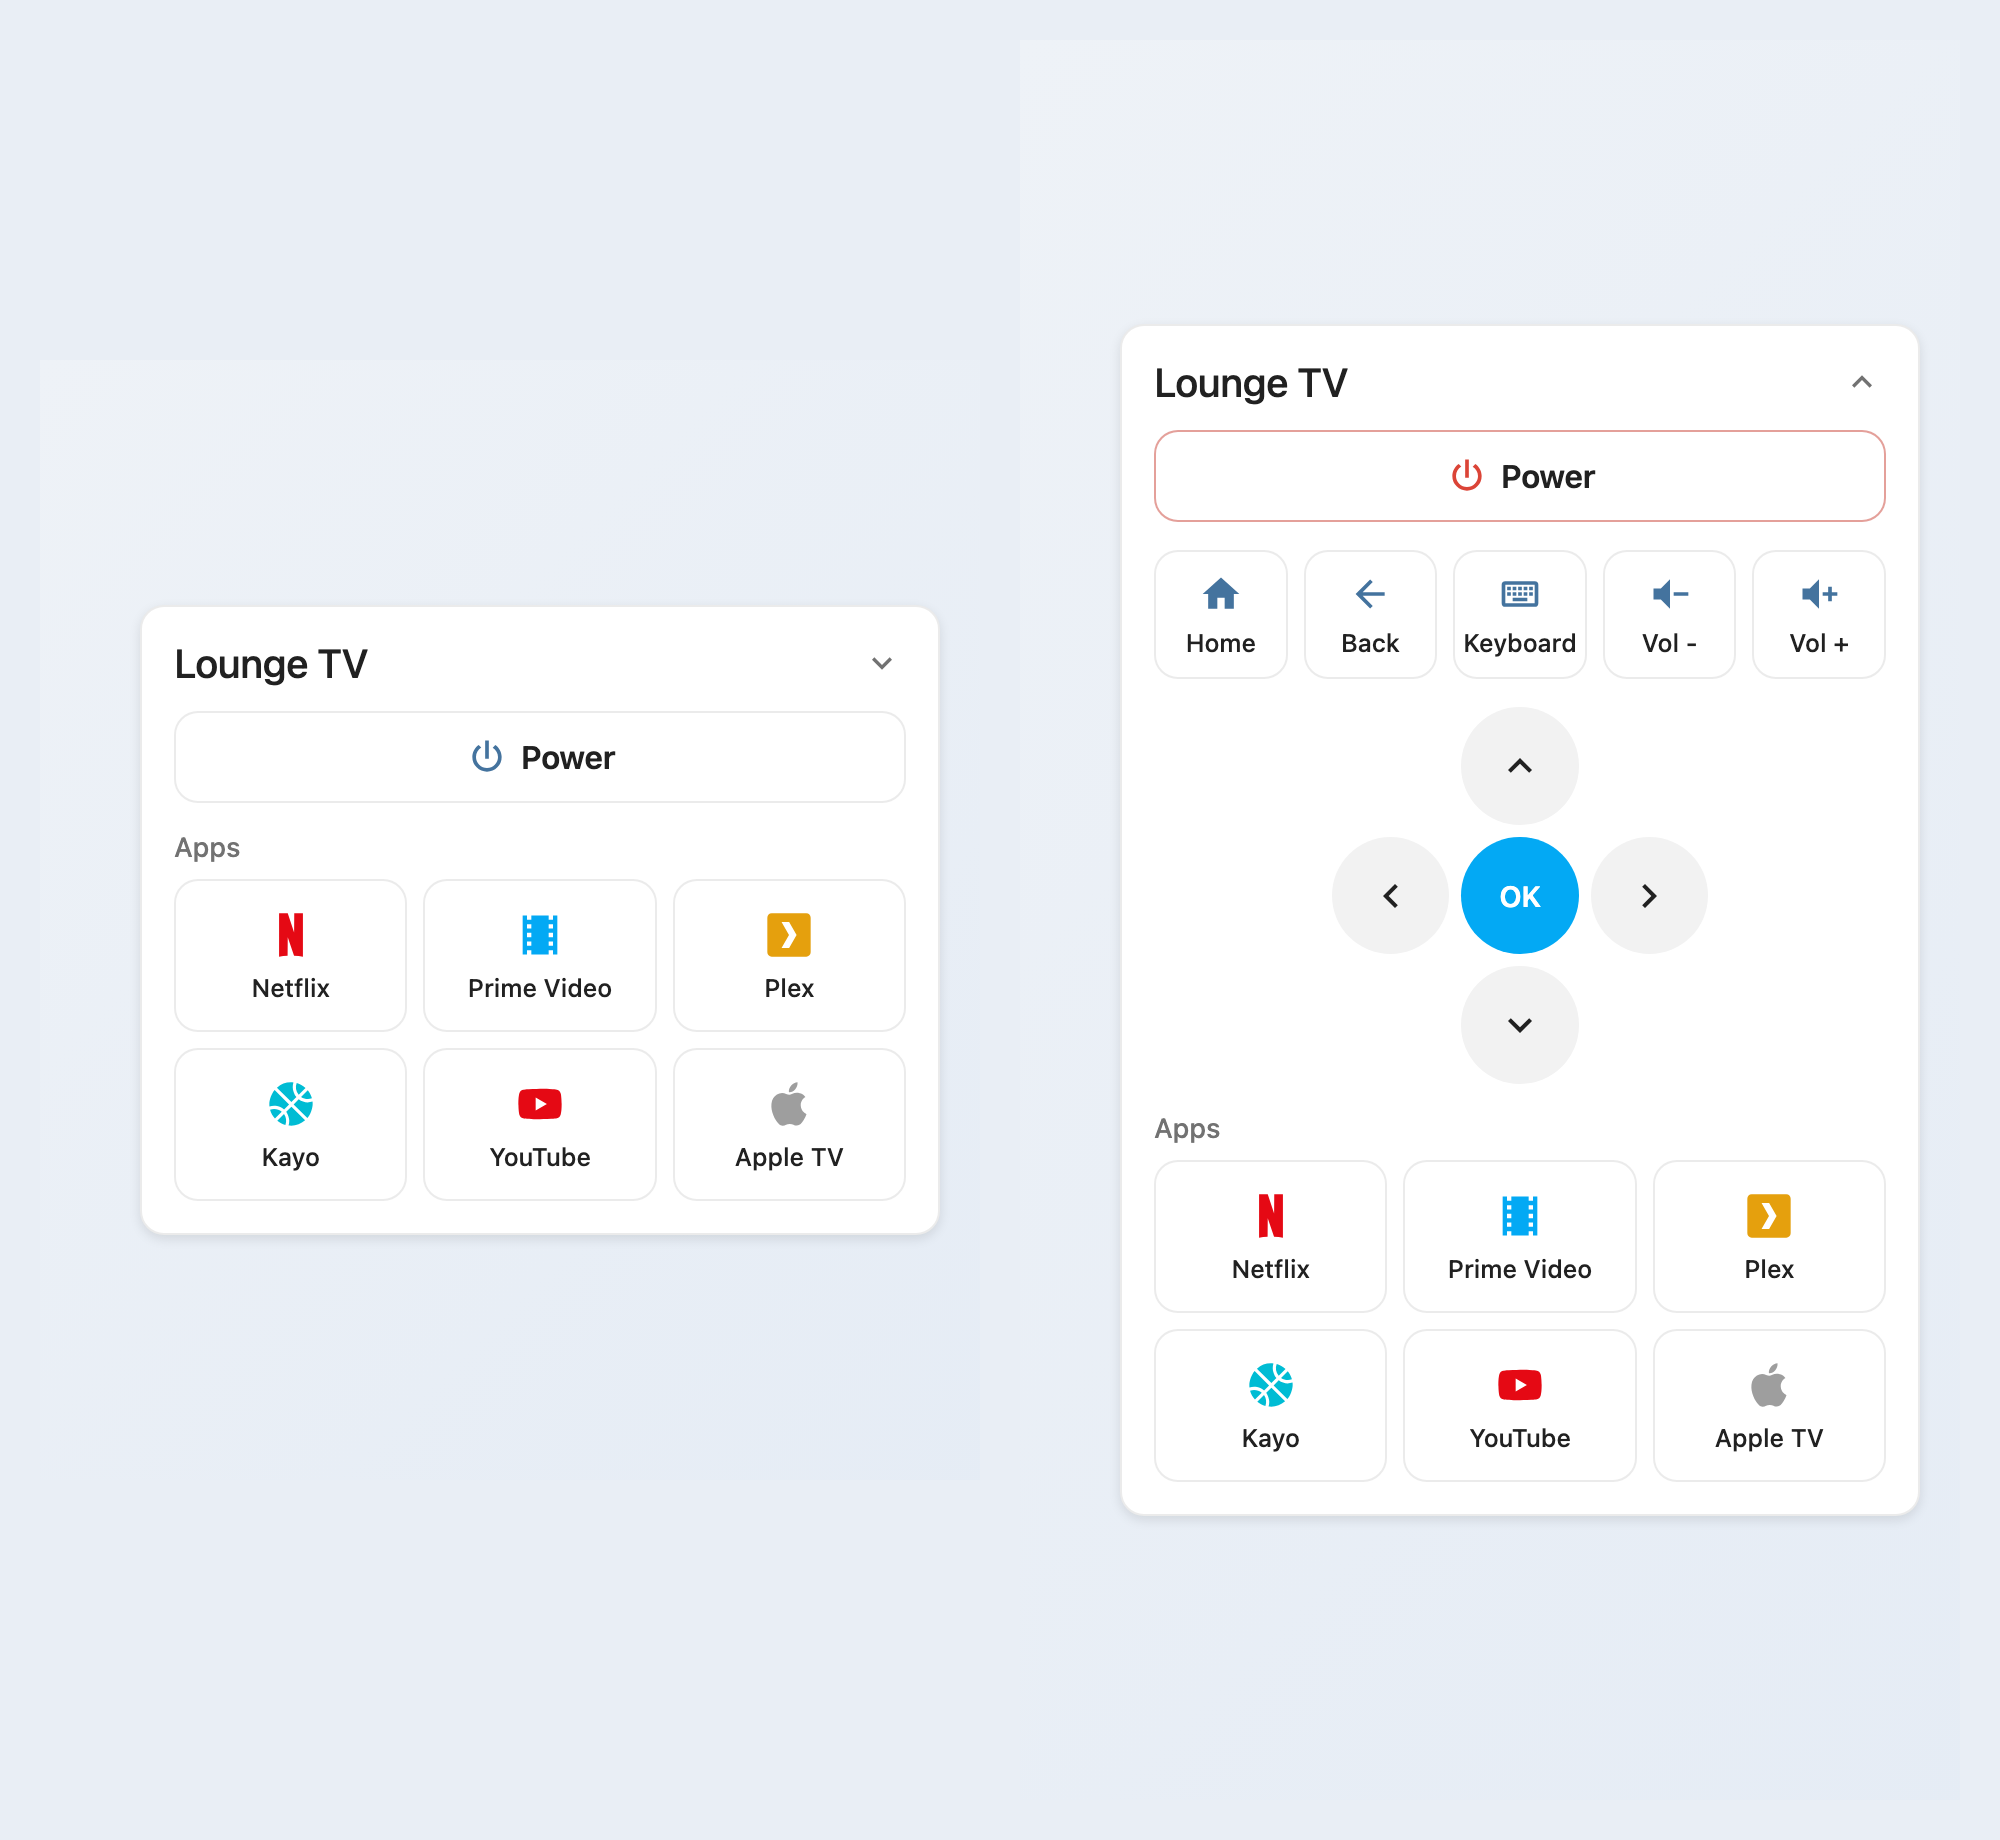
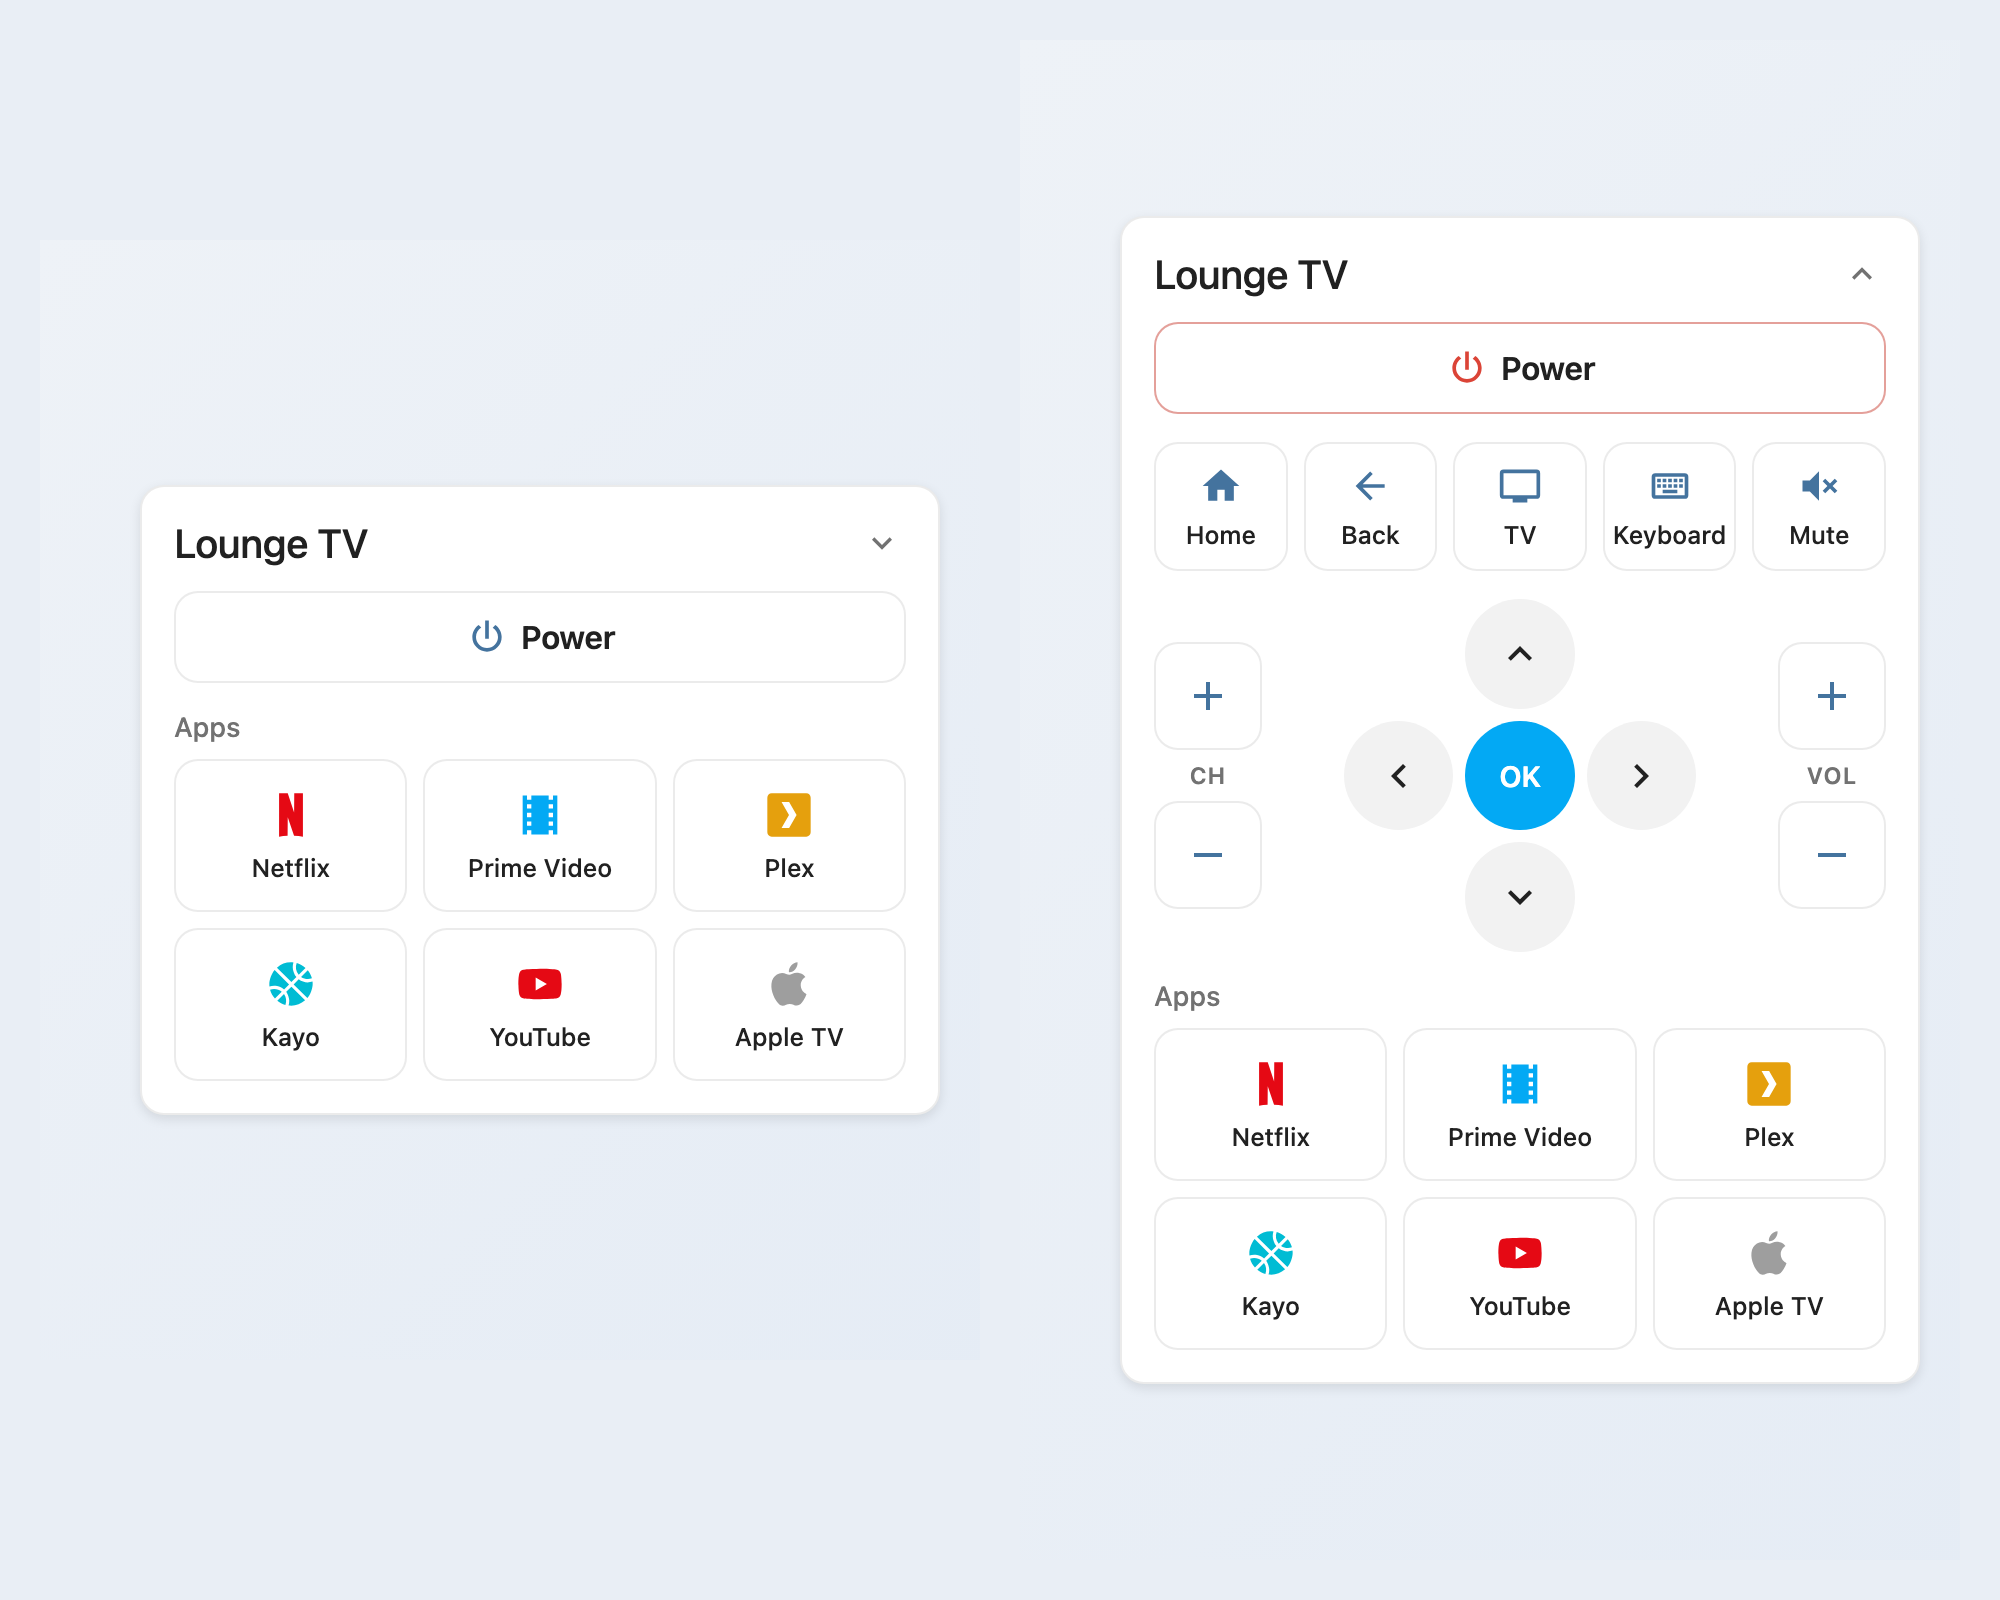
v1.4.1: remote-style cluster — channel rocker left of D-pad, volume rocker right; add TV and Mute buttons to nav row

diff --git a/androidtv-remote-card.js b/androidtv-remote-card.js
@@ -25,7 +25,7 @@
  * MIT License — Jason Crouch. Icons: Material Design Icons via ha-icon.
  */
 
-const ATV_CARD_VERSION = '1.4.0';
+const ATV_CARD_VERSION = '1.4.1';
 
 // A sensible default app-shortcut set, offered as a one-click "Add common
 // apps" button in the editor. `package` accepts an application ID (com.foo.bar)
@@ -181,7 +181,12 @@ class AndroidTvRemoteCard extends HTMLElement {
         .atv-kbd .tile { padding: 0 14px; min-height: 46px; }
         .atv-kbd .tile ha-icon { --mdc-icon-size: 22px; }
         .atv-kbd .tile span { font-weight: 600; color: var(--primary-text-color); }
-        .atv-dpad { display: grid; grid-template-columns: repeat(3, 1fr); gap: 6px; width: 188px; margin: 0 auto; }
+        .atv-cluster { display: grid; grid-template-columns: auto 1fr auto; align-items: center; gap: 6px; margin-bottom: 14px; }
+        .atv-rocker { display: flex; flex-direction: column; align-items: center; gap: 6px; }
+        .atv-rocker .tile { width: 54px; height: 54px; }
+        .atv-rocker .tile ha-icon { --mdc-icon-size: 24px; }
+        .atv-rocker .rk-label { font-size: 0.72rem; font-weight: 600; letter-spacing: 0.5px; color: var(--secondary-text-color); }
+        .atv-dpad { display: grid; grid-template-columns: repeat(3, 1fr); gap: 6px; width: 176px; margin: 0 auto; }
         .atv-dbtn {
           display: flex; align-items: center; justify-content: center;
           aspect-ratio: 1 / 1; border-radius: 50%;
@@ -196,6 +201,7 @@ class AndroidTvRemoteCard extends HTMLElement {
         .atv-dbtn.spacer { background: none; cursor: default; }
         .atv-section-label { font-size: 0.85rem; font-weight: 500; color: var(--secondary-text-color); margin: 4px 0 8px; }
         .atv-livetv { margin-top: 14px; }
+        .atv-livetv-row { grid-template-columns: repeat(3, 1fr); }
         .atv-keypad { display: grid; grid-template-columns: repeat(3, 1fr); gap: 8px; margin-top: 10px; }
         .atv-keypad .tile { min-height: 52px; font-size: 1.1rem; font-weight: 600; color: var(--primary-text-color); }
         .atv-keypad .tile ha-icon { --mdc-icon-size: 22px; }
@@ -232,9 +238,9 @@ class AndroidTvRemoteCard extends HTMLElement {
           <div class="atv-row">
             <div class="tile" data-cmd="HOME"><ha-icon icon="mdi:home"></ha-icon><span>Home</span></div>
             <div class="tile" data-cmd="BACK"><ha-icon icon="mdi:arrow-left"></ha-icon><span>Back</span></div>
+            <div class="tile" data-cmd="TV"><ha-icon icon="mdi:television"></ha-icon><span>TV</span></div>
             <div class="tile atv-kbd-toggle"><ha-icon icon="mdi:keyboard-outline"></ha-icon><span>Keyboard</span></div>
-            <div class="tile" data-cmd="VOLUME_DOWN"><ha-icon icon="mdi:volume-minus"></ha-icon><span>Vol -</span></div>
-            <div class="tile" data-cmd="VOLUME_UP"><ha-icon icon="mdi:volume-plus"></ha-icon><span>Vol +</span></div>
+            <div class="tile" data-cmd="MUTE"><ha-icon icon="mdi:volume-mute"></ha-icon><span>Mute</span></div>
           </div>
           <div class="atv-kbd" style="display:none;">
             <input class="atv-kbd-input" type="text" placeholder="Type, then Send…" enterkeyhint="send" />
@@ -242,22 +248,32 @@ class AndroidTvRemoteCard extends HTMLElement {
             <div class="tile atv-kbd-btn" data-kbd="send" title="Type onto TV"><span>Send</span></div>
             <div class="tile atv-kbd-btn" data-kbd="enter" title="Enter"><ha-icon icon="mdi:keyboard-return"></ha-icon></div>
           </div>
-          <div class="atv-dpad">
-            <div class="atv-dbtn spacer"></div>
-            <div class="atv-dbtn" data-cmd="DPAD_UP"><ha-icon icon="mdi:chevron-up"></ha-icon></div>
-            <div class="atv-dbtn spacer"></div>
-            <div class="atv-dbtn" data-cmd="DPAD_LEFT"><ha-icon icon="mdi:chevron-left"></ha-icon></div>
-            <div class="atv-dbtn ok" data-cmd="DPAD_CENTER"><span>OK</span></div>
-            <div class="atv-dbtn" data-cmd="DPAD_RIGHT"><ha-icon icon="mdi:chevron-right"></ha-icon></div>
-            <div class="atv-dbtn spacer"></div>
-            <div class="atv-dbtn" data-cmd="DPAD_DOWN"><ha-icon icon="mdi:chevron-down"></ha-icon></div>
-            <div class="atv-dbtn spacer"></div>
+          <div class="atv-cluster">
+            <div class="atv-rocker">
+              <div class="tile rk" data-cmd="CHANNEL_UP"><ha-icon icon="mdi:plus"></ha-icon></div>
+              <div class="rk-label">CH</div>
+              <div class="tile rk" data-cmd="CHANNEL_DOWN"><ha-icon icon="mdi:minus"></ha-icon></div>
+            </div>
+            <div class="atv-dpad">
+              <div class="atv-dbtn spacer"></div>
+              <div class="atv-dbtn" data-cmd="DPAD_UP"><ha-icon icon="mdi:chevron-up"></ha-icon></div>
+              <div class="atv-dbtn spacer"></div>
+              <div class="atv-dbtn" data-cmd="DPAD_LEFT"><ha-icon icon="mdi:chevron-left"></ha-icon></div>
+              <div class="atv-dbtn ok" data-cmd="DPAD_CENTER"><span>OK</span></div>
+              <div class="atv-dbtn" data-cmd="DPAD_RIGHT"><ha-icon icon="mdi:chevron-right"></ha-icon></div>
+              <div class="atv-dbtn spacer"></div>
+              <div class="atv-dbtn" data-cmd="DPAD_DOWN"><ha-icon icon="mdi:chevron-down"></ha-icon></div>
+              <div class="atv-dbtn spacer"></div>
+            </div>
+            <div class="atv-rocker">
+              <div class="tile rk" data-cmd="VOLUME_UP"><ha-icon icon="mdi:plus"></ha-icon></div>
+              <div class="rk-label">VOL</div>
+              <div class="tile rk" data-cmd="VOLUME_DOWN"><ha-icon icon="mdi:minus"></ha-icon></div>
+            </div>
           </div>
           <div class="atv-livetv">
             <div class="atv-section-label">Live TV</div>
-            <div class="atv-row">
-              <div class="tile" data-cmd="CHANNEL_DOWN"><ha-icon icon="mdi:chevron-down"></ha-icon><span>Ch -</span></div>
-              <div class="tile" data-cmd="CHANNEL_UP"><ha-icon icon="mdi:chevron-up"></ha-icon><span>Ch +</span></div>
+            <div class="atv-row atv-livetv-row">
               <div class="tile" data-cmd="GUIDE"><ha-icon icon="mdi:television-guide"></ha-icon><span>Guide</span></div>
               <div class="tile" data-cmd="INFO"><ha-icon icon="mdi:information-outline"></ha-icon><span>Info</span></div>
               <div class="tile atv-keypad-toggle"><ha-icon icon="mdi:dialpad"></ha-icon><span>Keypad</span></div>